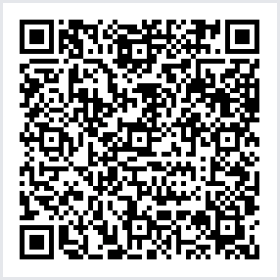
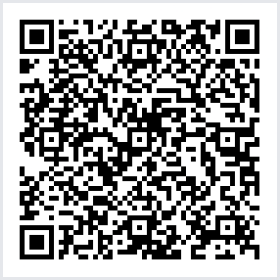
feat: atualizar cÃ³digo PIX e preÃ§o para R$ 19,99

diff --git a/src/components/steps/Step6Payment.tsx b/src/components/steps/Step6Payment.tsx
@@ -9,7 +9,7 @@ const Step6Payment = () => {
   const [copied, setCopied] = useState(false);
   const [isLoading, setIsLoading] = useState(false);
   
-  const pixCode = '00020126430014BR.GOV.BCB.PIX0121agenciavonk@gmail.com520400005303986540510.005802BR5901N6001C62210517MapaDnaFinanceiro63045131';
+  const pixCode = '00020126430014BR.GOV.BCB.PIX0121agenciavonk@gmail.com520400005303986540519.995802BR5901N6001C62210517MapaDnaFinanceiro63042A70';
   const whatsappLink = 'https://wa.me/5534997101300?text=Ol%C3%A1%20fiz%20a%20compra%20do%20relat%C3%B3rio.%20';
 
   const handleCopy = () => {
@@ -47,7 +47,7 @@ const Step6Payment = () => {
           </h2>
           
           <div className="inline-block">
-            <p className="text-5xl font-orbitron matrix-glow" style={{ color: '#B28C36' }}>R$ 10,00</p>
+            <p className="text-5xl font-orbitron matrix-glow" style={{ color: '#B28C36' }}>R$ 19,99</p>
             <p className="text-sm text-muted-foreground">Pagamento único via PIX</p>
           </div>
         </div>

diff --git a/src/components/steps/Step5PreviewReport.tsx b/src/components/steps/Step5PreviewReport.tsx
@@ -249,7 +249,7 @@ const Step5PreviewReport = () => {
 
           <div className="flex items-center justify-center gap-3">
             <span className="text-2xl line-through text-muted-foreground">R$ 49,90</span>
-            <span className="text-5xl font-orbitron matrix-glow" style={{ color: '#B28C36' }}>R$ 10,00</span>
+            <span className="text-5xl font-orbitron matrix-glow" style={{ color: '#B28C36' }}>R$ 19,99</span>
           </div>
 
           <Button
